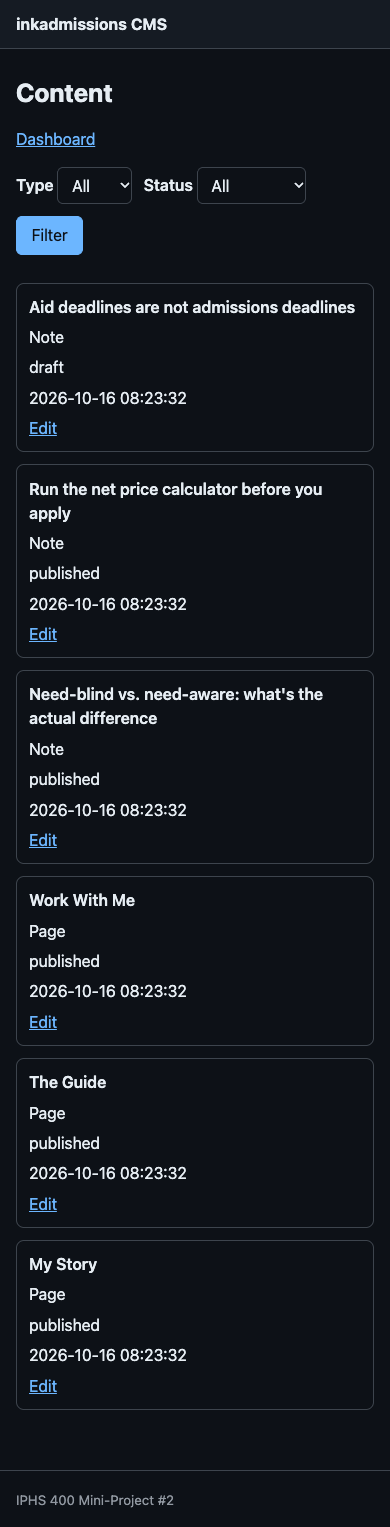
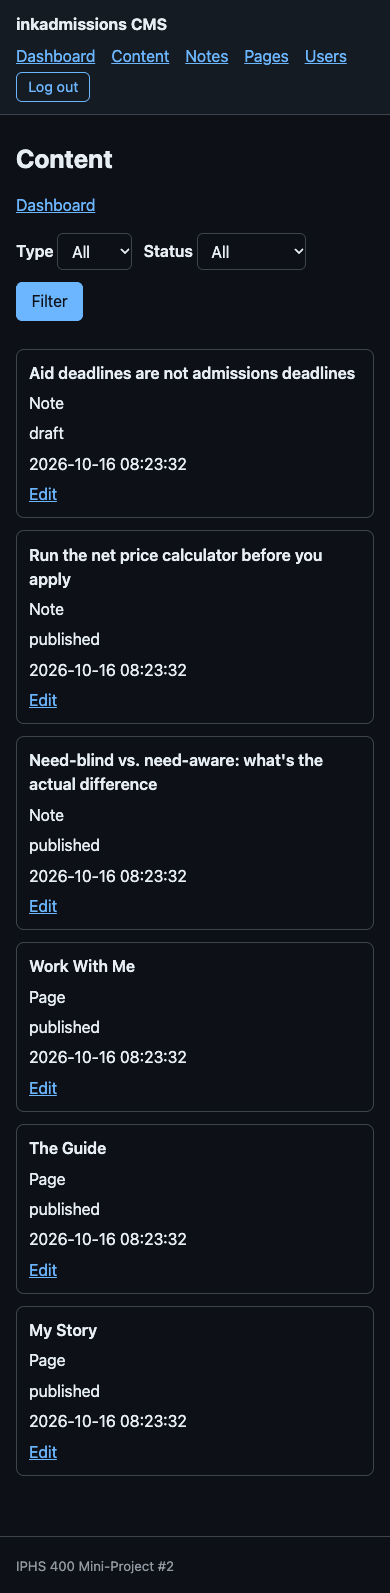
T11: admin nav, logout button, success messages
- Every logged-in admin screen has a nav (Dashboard, Content, Notes, and
  Pages/Users for admins) and a Log out button.
- POST /logout now requires the CSRF token like every other form.
- Saving, publishing, unpublishing or deleting shows a success message
  (allowlisted ?done= keys only).
- Screenshots retaken; tech-spec and README updated.

Closes #11

diff --git a/templates/base.html b/templates/base.html
@@ -28,9 +28,30 @@
     </nav>
     {% else %}
     <a class="brand" href="{{ rel('/admin') }}">inkadmissions CMS</a>
+    {#- T11: persistent admin nav. Role here is display only; routes enforce it. #}
+    {%- set s = admin_session(request) %}
+    {%- if s %}
+    <nav aria-label="Admin">
+      <a href="{{ rel('/admin') }}">Dashboard</a>
+      <a href="{{ rel('/admin/content') }}">Content</a>
+      <a href="{{ rel('/admin/notes') }}">Notes</a>
+      {%- if s.role == "admin" %}
+      <a href="{{ rel('/admin/pages') }}">Pages</a>
+      <a href="{{ rel('/admin/users') }}">Users</a>
+      {%- endif %}
+      <form method="post" action="{{ rel('/logout') }}">
+        <input type="hidden" name="csrf_token" value="{{ s.csrf }}">
+        <button type="submit">Log out</button>
+      </form>
+    </nav>
+    {%- endif %}
     {% endif %}
   </header>
-  <main>{% block content %}{% endblock %}</main>
+  <main>
+    {%- if nav is not defined and DONE_MESSAGES.get(request.query_params.get('done')) %}
+    <p role="status" class="ok">{{ DONE_MESSAGES[request.query_params['done']] }}</p>
+    {%- endif %}
+    {% block content %}{% endblock %}</main>
   <footer><small>IPHS 400 Mini-Project #2</small></footer>
 </body>
 </html>

diff --git a/templates/admin/_style.html b/templates/admin/_style.html
@@ -56,4 +56,9 @@
                                   border: 1px dashed var(--line); border-radius: 8px;
                                   background: var(--soft); overflow-wrap: anywhere; }
     main ul { padding-left: 1.25rem; }
+    nav[aria-label=Admin] { display: flex; flex-wrap: wrap; gap: .25rem 1rem; align-items: center; }
+    nav[aria-label=Admin] form { margin: 0; }
+    nav[aria-label=Admin] button { padding: .2rem .7rem; font-size: .9rem; background: transparent;
+                                   color: var(--accent); }
+    .ok { padding: .6rem .8rem; border-left: 4px solid #1a7f37; background: var(--soft); }
   </style>

diff --git a/tests/test_admin_nav.py b/tests/test_admin_nav.py
@@ -1,0 +1,67 @@
+"""T11: admin nav, logout button, success messages (#11)."""
+from __future__ import annotations
+
+import re
+
+
+def _token(client, path="/admin/notes/new") -> str:
+    return re.search(r'name="csrf_token" value="([^"]+)"', client.get(path).text).group(1)
+
+
+def test_admin_screens_have_nav_and_a_logout_form(client_as):
+    admin = client_as("admin")
+    html = admin.get("/admin/content").text
+    for label in ("Dashboard", "Content", "Notes", "Pages", "Users", "Log out"):
+        assert label in html, label
+    assert re.search(r'<form method="post" action="[^"/][^"]*logout"', html)
+    assert 'href="/' not in html and 'action="/' not in html
+
+
+def test_editor_nav_hides_admin_only_links(client_as):
+    html = client_as("editor").get("/admin").text
+    nav = html.split('<nav aria-label="Admin">')[1].split("</nav>")[0]
+    assert "Pages" not in nav and "Users" not in nav and "Log out" in nav
+
+
+def test_logout_requires_csrf_and_then_logs_out(client_as):
+    admin = client_as("admin")
+    assert admin.post("/logout", follow_redirects=False).status_code == 403
+    assert admin.post("/logout", data={"csrf_token": "wrong"},
+                      follow_redirects=False).status_code == 403
+    token = _token(admin)
+    response = admin.post("/logout", data={"csrf_token": token}, follow_redirects=False)
+    assert response.status_code == 303 and response.headers["location"] == "/login"
+    assert admin.get("/admin", follow_redirects=False).status_code == 303
+
+
+def test_saving_a_note_shows_a_success_message(client_as):
+    admin = client_as("admin")
+    response = admin.post("/admin/notes", data={
+        "title": "Hi", "slug": "hi", "body_md": "x", "csrf_token": _token(admin)})
+    assert response.status_code == 200
+    assert 'role="status"' in response.text and "Saved." in response.text
+
+
+def test_publishing_a_page_shows_a_success_message(client_as):
+    admin = client_as("admin")
+    token = _token(admin, "/admin/pages/new")
+    admin.post("/admin/pages", data={"title": "About", "slug": "about", "body_md": "x",
+                                     "nav_order": "1", "csrf_token": token})
+    response = admin.post("/admin/pages/1/publish", data={"csrf_token": token})
+    assert "Published." in response.text
+
+
+def test_unknown_message_key_is_ignored(client_as):
+    html = client_as("admin").get("/admin/notes?done=<script>").text
+    assert 'role="status"' not in html
+
+
+def test_unpublish_and_delete_show_success_messages(client_as):
+    admin = client_as("admin")
+    token = _token(admin)
+    admin.post("/admin/notes", data={"title": "Hi", "slug": "hi", "body_md": "x",
+                                     "csrf_token": token})
+    admin.post("/admin/notes/1/publish", data={"csrf_token": token})
+    assert "Unpublished." in admin.post("/admin/notes/1/unpublish",
+                                        data={"csrf_token": token}).text
+    assert "Deleted." in admin.post("/admin/notes/1/delete", data={"csrf_token": token}).text

diff --git a/app/routes/pages.py b/app/routes/pages.py
@@ -95,7 +95,7 @@ def create_page(
         form = {"title": title, "slug": slug, "body_md": body_md, "nav_order": nav_order}
         return _form_error(request, None, form, session["csrf"], DUPLICATE_SLUG, 409)
     conn.commit()
-    return RedirectResponse(url="/admin/pages", status_code=303)
+    return RedirectResponse(url="/admin/pages?done=saved", status_code=303)
 
 
 @router.get("/{page_id}/edit")
@@ -142,7 +142,7 @@ def update_page(
         form = {"title": title, "slug": slug, "body_md": body_md, "nav_order": nav_order}
         return _form_error(request, page, form, session["csrf"], DUPLICATE_SLUG, 409)
     conn.commit()
-    return RedirectResponse(url="/admin/pages", status_code=303)
+    return RedirectResponse(url="/admin/pages?done=saved", status_code=303)
 
 
 @router.post("/{page_id}/publish")
@@ -158,7 +158,7 @@ def publish_page(
         (page_id,),
     )
     conn.commit()
-    return RedirectResponse(url="/admin/pages", status_code=303)
+    return RedirectResponse(url="/admin/pages?done=published", status_code=303)
 
 
 @router.post("/{page_id}/unpublish")
@@ -174,7 +174,7 @@ def unpublish_page(
         (page_id,),
     )
     conn.commit()
-    return RedirectResponse(url="/admin/pages", status_code=303)
+    return RedirectResponse(url="/admin/pages?done=unpublished", status_code=303)
 
 
 @router.post("/{page_id}/delete")
@@ -187,4 +187,4 @@ def delete_page(
     _get_page_or_404(conn, page_id)
     conn.execute("DELETE FROM content WHERE id=?", (page_id,))
     conn.commit()
-    return RedirectResponse(url="/admin/pages", status_code=303)
+    return RedirectResponse(url="/admin/pages?done=deleted", status_code=303)

diff --git a/app/routes/notes.py b/app/routes/notes.py
@@ -113,7 +113,7 @@ def create_note(
         form = {"title": title, "slug": slug, "body_md": body_md}
         return _form_error(request, None, form, session["csrf"], DUPLICATE_SLUG, 409)
     conn.commit()
-    return RedirectResponse(url="/admin/notes", status_code=303)
+    return RedirectResponse(url="/admin/notes?done=saved", status_code=303)
 
 
 @router.get("/{note_id}/edit")
@@ -161,7 +161,7 @@ def update_note(
         form = {"title": title, "slug": slug, "body_md": body_md}
         return _form_error(request, note, form, session["csrf"], DUPLICATE_SLUG, 409)
     conn.commit()
-    return RedirectResponse(url="/admin/notes", status_code=303)
+    return RedirectResponse(url="/admin/notes?done=saved", status_code=303)
 
 
 @router.post("/{note_id}/publish")
@@ -177,7 +177,7 @@ def publish_note(
         (note_id,),
     )
     conn.commit()
-    return RedirectResponse(url="/admin/notes", status_code=303)
+    return RedirectResponse(url="/admin/notes?done=published", status_code=303)
 
 
 @router.post("/{note_id}/unpublish")
@@ -193,7 +193,7 @@ def unpublish_note(
         (note_id,),
     )
     conn.commit()
-    return RedirectResponse(url="/admin/notes", status_code=303)
+    return RedirectResponse(url="/admin/notes?done=unpublished", status_code=303)
 
 
 @router.post("/{note_id}/delete")
@@ -206,4 +206,4 @@ def delete_note(
     _get_note_or_404(conn, note_id)
     conn.execute("DELETE FROM content WHERE id=?", (note_id,))
     conn.commit()
-    return RedirectResponse(url="/admin/notes", status_code=303)
+    return RedirectResponse(url="/admin/notes?done=deleted", status_code=303)

diff --git a/app/routes/users.py b/app/routes/users.py
@@ -109,7 +109,7 @@ def create_user(
             raise
         return _new_user_form(request, session["csrf"], form, DUPLICATE_EMAIL, 409)
     conn.commit()
-    return RedirectResponse(url="/admin/users", status_code=303)
+    return RedirectResponse(url="/admin/users?done=created", status_code=303)
 
 
 @router.post("/{user_id}/role")
@@ -126,7 +126,7 @@ def change_role(
         raise HTTPException(status_code=422, detail=BAD_ROLE)
     conn.execute("UPDATE users SET role=? WHERE id=?", (role, user_id))
     conn.commit()
-    return RedirectResponse(url="/admin/users", status_code=303)
+    return RedirectResponse(url="/admin/users?done=role", status_code=303)
 
 
 @router.post("/{user_id}/deactivate")
@@ -140,4 +140,4 @@ def deactivate_user(
     _refuse_self(user, target)
     conn.execute("UPDATE users SET is_active=0 WHERE id=?", (user_id,))
     conn.commit()
-    return RedirectResponse(url="/admin/users", status_code=303)
+    return RedirectResponse(url="/admin/users?done=deactivated", status_code=303)

diff --git a/app/templating.py b/app/templating.py
@@ -13,6 +13,7 @@ from jinja2 import pass_context
 
 from app import settings
 from app.markdown import render_markdown
+from app.deps import get_session
 
 templates = Jinja2Templates(directory=str(settings.TEMPLATES))
 templates.env.filters["markdown"] = render_markdown
@@ -34,3 +35,15 @@ def rel(context, target: str) -> str:
 
 
 templates.env.globals["rel"] = rel
+
+
+# T11: the signed session (role, csrf) for the admin nav and logout form, via
+# the same reader the routes use. Display only; routes enforce their own roles.
+templates.env.globals["admin_session"] = get_session
+
+# T11: success messages after a redirect, keyed by ?done=. Unknown keys show nothing.
+templates.env.globals["DONE_MESSAGES"] = {
+    "saved": "Saved.", "published": "Published.", "unpublished": "Unpublished.",
+    "deleted": "Deleted.", "created": "User created.", "role": "Role changed.",
+    "deactivated": "User deactivated.",
+}

diff --git a/tests/test_auth.py b/tests/test_auth.py
@@ -1,6 +1,8 @@
 """T01: login, logout, password hashing."""
 from __future__ import annotations
 
+import re
+
 from app.db import get_connection
 
 
@@ -37,7 +39,9 @@ def test_unknown_email_is_rejected_with_the_same_message(client):
 
 def test_logout_clears_the_session_cookie(client_as):
     c = client_as("admin")
-    response = c.post("/logout", follow_redirects=False)
+    # T11: logout is a state-changing form, so it carries the CSRF token too.
+    token = re.search(r'name="csrf_token" value="([^"]+)"', c.get("/admin").text).group(1)
+    response = c.post("/logout", data={"csrf_token": token}, follow_redirects=False)
     assert response.status_code == 303
     set_cookie = response.headers.get("set-cookie", "")
     assert "cms_session=" in set_cookie

diff --git a/app/routes/auth.py b/app/routes/auth.py
@@ -14,7 +14,7 @@ import sqlite3
 from fastapi import APIRouter, Depends, Form, Request
 from fastapi.responses import RedirectResponse
 
-from app.deps import get_db
+from app.deps import get_db, verify_csrf
 from app.security import (
     SESSION_COOKIE,
     SESSION_MAX_AGE,
@@ -59,7 +59,7 @@ def login_submit(
 
 
 @router.post("/logout")
-def logout():
+def logout(_: None = Depends(verify_csrf)):
     response = RedirectResponse(url="/login", status_code=303)
     response.delete_cookie(SESSION_COOKIE)
     return response

diff --git a/docs/tech-spec.md b/docs/tech-spec.md
@@ -1,6 +1,6 @@
 # Tech Spec — inkadmissions CMS
 
-**Status:** T01–T07, #9 and T10 (#10, admin styling and a friendly 403 page) implemented. Tagged `mp2-final`.
+**Status:** T01–T07, #9, T10 (#10, admin styling and a friendly 403 page) and T11 (#11, admin nav, logout button, success messages) implemented. Tagged `mp2-final`.
 **Source of truth for requirements:** [spec issue #1](https://github.com/shokaninkar/iphs400-mp2-cms/issues/1). This document is the engineering-facing companion — architecture and data model detail the spec issue deliberately leaves out.
 
 ## 1. Overview
@@ -94,7 +94,7 @@ Enforced by `app/deps.py::require_role(*roles)`, applied per-route, not hidden i
 | Method | Path | Role | Ticket | Status |
 |---|---|---|---|---|
 | GET/POST | `/login` | anonymous | T01 | ✅ |
-| POST | `/logout` | any | T01 | ✅ |
+| POST | `/logout` (CSRF token required since T11) | any | T01, T11 | ✅ |
 | GET | `/admin` | admin, editor | T02 | ✅ |
 | GET | `/admin/notes` | admin, editor | T03 | ✅ |
 | GET | `/admin/notes/new` | admin, editor | T03 | ✅ |
@@ -123,7 +123,7 @@ Enforced by `app/deps.py::require_role(*roles)`, applied per-route, not hidden i
 
 ## 8. Testing strategy
 
-Route-level tests via `fastapi.testclient.TestClient`, not internal-function mocking — matches what the rubric's D3/E2 actually check. Every capability gets: a happy path, an access-control case (wrong role / anonymous), and a persistence case (fresh DB connection stands in for a server restart). Current: 101/101 passing (`tests/test_t00.py`, `test_auth.py`, `test_roles.py`, `test_notes.py`, `test_pages.py`, `test_dashboard.py`, `test_users.py`, `test_publish.py`, `test_admin_ui.py`, `test_ctx_guard.py`, `test_usage_report.py`).
+Route-level tests via `fastapi.testclient.TestClient`, not internal-function mocking — matches what the rubric's D3/E2 actually check. Every capability gets: a happy path, an access-control case (wrong role / anonymous), and a persistence case (fresh DB connection stands in for a server restart). Current: 108/108 passing (`tests/test_t00.py`, `test_auth.py`, `test_roles.py`, `test_notes.py`, `test_pages.py`, `test_dashboard.py`, `test_users.py`, `test_publish.py`, `test_admin_ui.py`, `test_admin_nav.py`, `test_ctx_guard.py`, `test_usage_report.py`).
 
 ## 9. Open questions / risks
 

diff --git a/README.md b/README.md
@@ -64,7 +64,7 @@ docs/           tech-spec, ADRs, handoffs, transcripts, screenshots, report
 notes/          field notes, client brief, token budget plan, usage ledger
 ```
 
-Spec: issue #1. Tickets: issues #2–#10, each closed by a `TNN: ... Closes #N` commit after
+Spec: issue #1. Tickets: issues #2–#11, each closed by a `TNN: ... Closes #N` commit after
 its `/code-review` findings were posted on the issue.
 
 ## Generative AI Use Statement
